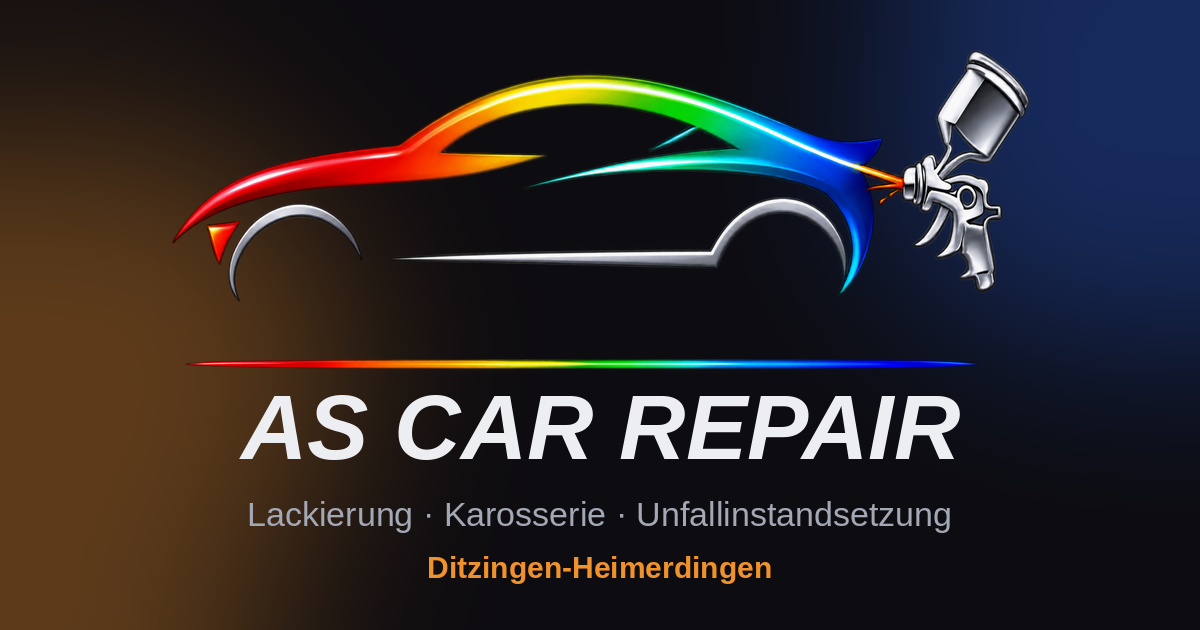
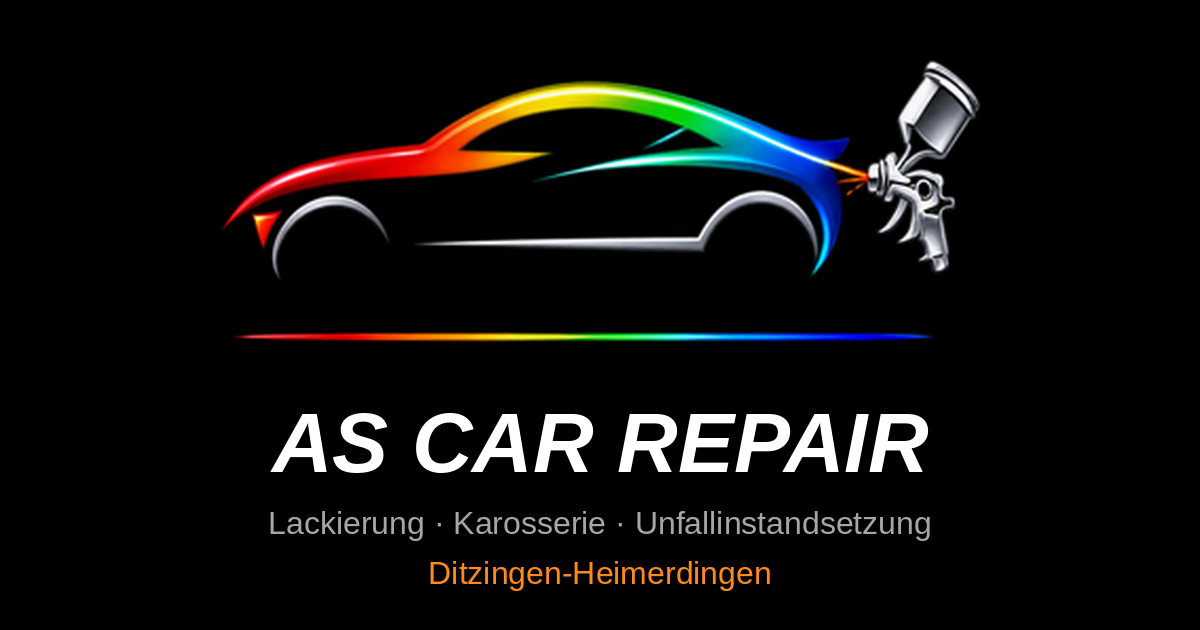
Neues Farbschema: Schwarz und Weiß als Grundfarben, Orange als Akzent
Claude-Session: https://claude.ai/code/session_01FC8vy2qGp4peTQecAV4PKK

diff --git a/assets/site.css b/assets/site.css
@@ -1,7 +1,7 @@
-:root{--accent:#f0922b;color-scheme:dark;
---bg:#0d0c11;--bg2:#100f15;--surface:#15141b;--hatch1:#1a1922;--hatch2:#15141b;--line:#23212b;--line2:#272530;--border:#3a3746;--fg:#eceef2;--fg2:#c4c8d1;--muted:#a3a8b4;--acctext:var(--accent);--hover:#ffffff;--track:#2a2833;--glass:rgba(255,255,255,.06);--glass-hover:rgba(255,255,255,.10);--glassborder:rgba(255,255,255,.22);--knobx:30px;--moon:1;--moonrot:0deg;--moonscale:1;--sun:0;--sunrot:-90deg;--sunscale:0.4}
+:root{--accent:#ff8a1f;color-scheme:dark;
+--bg:#000000;--bg2:#0a0a0a;--surface:#111111;--hatch1:#181818;--hatch2:#111111;--line:#222222;--line2:#2a2a2a;--border:#3d3d3d;--fg:#ffffff;--fg2:#d4d4d4;--muted:#a6a6a6;--acctext:var(--accent);--hover:#ffffff;--track:#2a2a2a;--glass:rgba(255,255,255,.06);--glass-hover:rgba(255,255,255,.10);--glassborder:rgba(255,255,255,.22);--knobx:30px;--moon:1;--moonrot:0deg;--moonscale:1;--sun:0;--sunrot:-90deg;--sunscale:0.4}
 :root[data-theme="light"]{color-scheme:light;
---bg:#f4f5f7;--bg2:#eceef2;--surface:#ffffff;--hatch1:#e4e7ed;--hatch2:#edeff3;--line:#dcdfe6;--line2:#d3d7df;--border:#bfc4cf;--fg:#14151a;--fg2:#383c47;--muted:#565b67;--acctext:color-mix(in srgb,var(--accent) 62%,#000000);--hover:#000000;--track:#d3d7df;--glass:rgba(255,255,255,.55);--glass-hover:rgba(255,255,255,.85);--glassborder:rgba(20,21,26,.16);--knobx:0px;--moon:0;--moonrot:90deg;--moonscale:0.4;--sun:1;--sunrot:0deg;--sunscale:1}
+--bg:#ffffff;--bg2:#f5f5f5;--surface:#ffffff;--hatch1:#e8e8e8;--hatch2:#f0f0f0;--line:#e3e3e3;--line2:#d9d9d9;--border:#bdbdbd;--fg:#000000;--fg2:#2b2b2b;--muted:#595959;--acctext:color-mix(in srgb,var(--accent) 62%,#000000);--hover:#000000;--track:#d9d9d9;--glass:rgba(255,255,255,.55);--glass-hover:rgba(255,255,255,.85);--glassborder:rgba(0,0,0,.16);--knobx:0px;--moon:0;--moonrot:90deg;--moonscale:0.4;--sun:1;--sunrot:0deg;--sunscale:1}
 html{scroll-behavior:smooth}
 body{margin:0;background:var(--bg)}
 a{color:inherit;text-decoration:none}
@@ -27,12 +27,12 @@ a:focus-visible,input:focus-visible,textarea:focus-visible,button:focus-visible{
 .svc:nth-child(n+4){grid-column:span 3;aspect-ratio:2.2/1}
 .svc .shot{position:absolute;inset:0;display:block;width:100%;height:100%;object-fit:cover;transition:transform .8s cubic-bezier(.2,.8,.2,1)}
 .svc:hover .shot,.svc:focus-within .shot{transform:scale(1.06)}
-.svc .info{position:absolute;left:0;right:0;bottom:0;padding:48px 22px 18px;background:linear-gradient(to top,rgba(10,9,14,.92) 0%,rgba(10,9,14,.7) 55%,transparent 100%);transition:padding-top .4s ease}
+.svc .info{position:absolute;left:0;right:0;bottom:0;padding:48px 22px 18px;background:linear-gradient(to top,rgba(0,0,0,.92) 0%,rgba(0,0,0,.7) 55%,transparent 100%);transition:padding-top .4s ease}
 .svc h3{margin:0;font-size:19px;line-height:1.2;font-weight:700;color:#fff;text-wrap:balance}
 .svc p{margin:0;max-height:0;opacity:0;overflow:hidden;color:rgba(255,255,255,.86);font-size:15px;line-height:1.55;transform:translateY(8px);transition:max-height .5s cubic-bezier(.2,.8,.2,1),opacity .35s ease,margin .4s ease,transform .5s cubic-bezier(.2,.8,.2,1)}
 .svc:hover p,.svc:focus-within p,.svc:focus p{max-height:12em;opacity:1;margin-top:10px;transform:none}
-.svc:hover .info,.svc:focus-within .info{background:linear-gradient(to top,rgba(10,9,14,.96) 0%,rgba(10,9,14,.9) 70%,rgba(10,9,14,.5) 100%)}
-.svc .plus{position:absolute;top:14px;right:14px;width:30px;height:30px;border-radius:50%;background:rgba(10,9,14,.55);border:1px solid rgba(255,255,255,.4);color:#fff;display:flex;align-items:center;justify-content:center;font-size:18px;line-height:1;transition:transform .4s ease,background-color .3s}
+.svc:hover .info,.svc:focus-within .info{background:linear-gradient(to top,rgba(0,0,0,.96) 0%,rgba(0,0,0,.9) 70%,rgba(0,0,0,.5) 100%)}
+.svc .plus{position:absolute;top:14px;right:14px;width:30px;height:30px;border-radius:50%;background:rgba(0,0,0,.55);border:1px solid rgba(255,255,255,.4);color:#fff;display:flex;align-items:center;justify-content:center;font-size:18px;line-height:1;transition:transform .4s ease,background-color .3s}
 .svc:hover .plus,.svc:focus-within .plus{transform:rotate(45deg);background:var(--accent);color:#1a1208;border-color:transparent}
 .svc:focus-visible{box-shadow:0 0 0 3px var(--accent)}
 @media (max-width:900px){.svc-list{grid-template-columns:repeat(2,minmax(0,1fr))}.svc,.svc:nth-child(n+4){grid-column:span 1;aspect-ratio:4/3}.svc:last-child{grid-column:span 2;aspect-ratio:16/9}}

diff --git a/index.html b/index.html
@@ -9,7 +9,7 @@
 <!-- Vor dem Livegang auf "index, follow" stellen, sobald alle Platzhalter ersetzt sind -->
 <meta name="robots" content="noindex, nofollow">
 <link rel="canonical" href="https://gkstgt.github.io/as-car-repair/">
-<meta name="theme-color" content="#0d0c11">
+<meta name="theme-color" content="#000000">
 <link rel="icon" href="favicon.ico" sizes="any">
 <link rel="icon" type="image/png" sizes="32x32" href="assets/favicon-32.png">
 <link rel="apple-touch-icon" href="assets/apple-touch-icon.png">
@@ -162,8 +162,8 @@
 <div style="margin-top:32px;display:flex;flex-wrap:wrap;gap:12px">
 <a href="kontakt.html" style="display:inline-block;padding:14px 25px;border:1px solid var(--border);border-radius:6px;background:var(--accent);color:#1a1208;font-weight:700;font-size:16px">Schaden melden</a><a href="leistungen.html" style="display:inline-block;padding:14px 26px;border:1px solid var(--border);border-radius:6px;font-weight:600;font-size:16px;color:var(--fg)">Unsere Leistungen</a></div>
 </div>
-<aside aria-labelledby="h-holbring" style="flex:0 1 380px;min-width:0;box-sizing:border-box;padding:26px 28px 28px;border:2px solid var(--accent);border-right-color:#25bfc6;border-radius:6px;background:linear-gradient(145deg,color-mix(in srgb,var(--accent) 8%,var(--surface)),var(--surface) 38%);box-shadow:7px 7px 0 color-mix(in srgb,var(--accent) 14%,transparent)">
-<div aria-hidden="true" style="display:flex;align-items:center;gap:8px"><span style="display:flex;align-items:center;justify-content:center;width:25px;height:21px;transform:rotate(45deg);background:linear-gradient(135deg,#ffd48a,var(--accent) 55%,#ca5a1b);color:#1a1208;font-size:14px;font-weight:900">↔</span><span style="width:62px;height:6px;transform:skewX(-25deg);background:#25bfc6;box-shadow:0 10px 0 var(--accent),0 20px 0 #25bfc6"></span></div>
+<aside aria-labelledby="h-holbring" style="flex:0 1 380px;min-width:0;box-sizing:border-box;padding:26px 28px 28px;border:2px solid var(--accent);border-right-color:#ffb066;border-radius:6px;background:linear-gradient(145deg,color-mix(in srgb,var(--accent) 8%,var(--surface)),var(--surface) 38%);box-shadow:7px 7px 0 color-mix(in srgb,var(--accent) 14%,transparent)">
+<div aria-hidden="true" style="display:flex;align-items:center;gap:8px"><span style="display:flex;align-items:center;justify-content:center;width:25px;height:21px;transform:rotate(45deg);background:linear-gradient(135deg,#ffc58a,var(--accent) 55%,#d9620a);color:#1a1208;font-size:14px;font-weight:900">↔</span><span style="width:62px;height:6px;transform:skewX(-25deg);background:#ffb066;box-shadow:0 10px 0 var(--accent),0 20px 0 #ffb066"></span></div>
 <div style="margin-top:20px;font-size:12px;font-weight:800;font-style:italic;letter-spacing:0.15em;color:var(--acctext)">NEU BEI AS CAR REPAIR</div>
 <h2 id="h-holbring" style="margin:7px 0 10px;font-size:26px;line-height:1.05;font-weight:900;font-style:italic;letter-spacing:-0.025em;text-transform:uppercase;text-shadow:2px 2px 0 color-mix(in srgb,var(--accent) 28%,transparent)">Hol- und Bringservice</h2>
 <p style="margin:0;color:var(--fg2);font-size:15px">Wir holen Ihr fahrbereites Auto nach Vereinbarung ab und bringen es nach der Reparatur zurück.</p>

diff --git a/leistungen.html b/leistungen.html
@@ -9,7 +9,7 @@
 <!-- Vor dem Livegang auf "index, follow" stellen, sobald alle Platzhalter ersetzt sind -->
 <meta name="robots" content="noindex, nofollow">
 <link rel="canonical" href="https://gkstgt.github.io/as-car-repair/leistungen.html">
-<meta name="theme-color" content="#0d0c11">
+<meta name="theme-color" content="#000000">
 <link rel="icon" href="favicon.ico" sizes="any">
 <link rel="icon" type="image/png" sizes="32x32" href="assets/favicon-32.png">
 <link rel="apple-touch-icon" href="assets/apple-touch-icon.png">
@@ -59,8 +59,7 @@
 
 <main id="inhalt">
 <section aria-labelledby="h-leistungen" id="leistungen" style="position:relative;overflow:hidden;border-top:1px solid var(--line)">
-<div aria-hidden="true" style="position:absolute;top:60px;left:-140px;width:440px;height:440px;border-radius:50%;background:rgba(240,146,43,0.30);filter:blur(90px);pointer-events:none"></div>
-<div aria-hidden="true" style="position:absolute;bottom:-80px;right:-120px;width:480px;height:480px;border-radius:50%;background:rgba(43,108,255,0.26);filter:blur(100px);pointer-events:none"></div>
+<div aria-hidden="true" style="position:absolute;top:60px;left:-140px;width:440px;height:440px;border-radius:50%;background:rgba(255,138,31,0.22);filter:blur(90px);pointer-events:none"></div>
 <div style="position:relative;max-width:1200px;margin:0 auto;padding:72px 32px;box-sizing:border-box">
 <div style="font-size:13px;font-weight:700;letter-spacing:0.14em;text-transform:uppercase;color:var(--acctext)">Leistungen</div>
 <h1 id="h-leistungen" style="margin:12px 0 0;font-size:clamp(26px,3.2cqi,38px);line-height:1.15;font-weight:800;letter-spacing:-0.01em;text-wrap:balance">Was wir an Ihrem Fahrzeug machen</h1>

diff --git a/datenschutz.html b/datenschutz.html
@@ -9,7 +9,7 @@
 <!-- Vor dem Livegang auf "index, follow" stellen, sobald alle Platzhalter ersetzt sind -->
 <meta name="robots" content="noindex, nofollow">
 <link rel="canonical" href="https://gkstgt.github.io/as-car-repair/datenschutz.html">
-<meta name="theme-color" content="#0d0c11">
+<meta name="theme-color" content="#000000">
 <link rel="icon" href="favicon.ico" sizes="any">
 <link rel="icon" type="image/png" sizes="32x32" href="assets/favicon-32.png">
 <link rel="apple-touch-icon" href="assets/apple-touch-icon.png">

diff --git a/impressum.html b/impressum.html
@@ -9,7 +9,7 @@
 <!-- Vor dem Livegang auf "index, follow" stellen, sobald alle Platzhalter ersetzt sind -->
 <meta name="robots" content="noindex, nofollow">
 <link rel="canonical" href="https://gkstgt.github.io/as-car-repair/impressum.html">
-<meta name="theme-color" content="#0d0c11">
+<meta name="theme-color" content="#000000">
 <link rel="icon" href="favicon.ico" sizes="any">
 <link rel="icon" type="image/png" sizes="32x32" href="assets/favicon-32.png">
 <link rel="apple-touch-icon" href="assets/apple-touch-icon.png">

diff --git a/ueber-uns.html b/ueber-uns.html
@@ -9,7 +9,7 @@
 <!-- Vor dem Livegang auf "index, follow" stellen, sobald alle Platzhalter ersetzt sind -->
 <meta name="robots" content="noindex, nofollow">
 <link rel="canonical" href="https://gkstgt.github.io/as-car-repair/ueber-uns.html">
-<meta name="theme-color" content="#0d0c11">
+<meta name="theme-color" content="#000000">
 <link rel="icon" href="favicon.ico" sizes="any">
 <link rel="icon" type="image/png" sizes="32x32" href="assets/favicon-32.png">
 <link rel="apple-touch-icon" href="assets/apple-touch-icon.png">

diff --git a/galerie.html b/galerie.html
@@ -9,7 +9,7 @@
 <!-- Vor dem Livegang auf "index, follow" stellen, sobald alle Platzhalter ersetzt sind -->
 <meta name="robots" content="noindex, nofollow">
 <link rel="canonical" href="https://gkstgt.github.io/as-car-repair/galerie.html">
-<meta name="theme-color" content="#0d0c11">
+<meta name="theme-color" content="#000000">
 <link rel="icon" href="favicon.ico" sizes="any">
 <link rel="icon" type="image/png" sizes="32x32" href="assets/favicon-32.png">
 <link rel="apple-touch-icon" href="assets/apple-touch-icon.png">

diff --git a/kontakt.html b/kontakt.html
@@ -9,7 +9,7 @@
 <!-- Vor dem Livegang auf "index, follow" stellen, sobald alle Platzhalter ersetzt sind -->
 <meta name="robots" content="noindex, nofollow">
 <link rel="canonical" href="https://gkstgt.github.io/as-car-repair/kontakt.html">
-<meta name="theme-color" content="#0d0c11">
+<meta name="theme-color" content="#000000">
 <link rel="icon" href="favicon.ico" sizes="any">
 <link rel="icon" type="image/png" sizes="32x32" href="assets/favicon-32.png">
 <link rel="apple-touch-icon" href="assets/apple-touch-icon.png">
